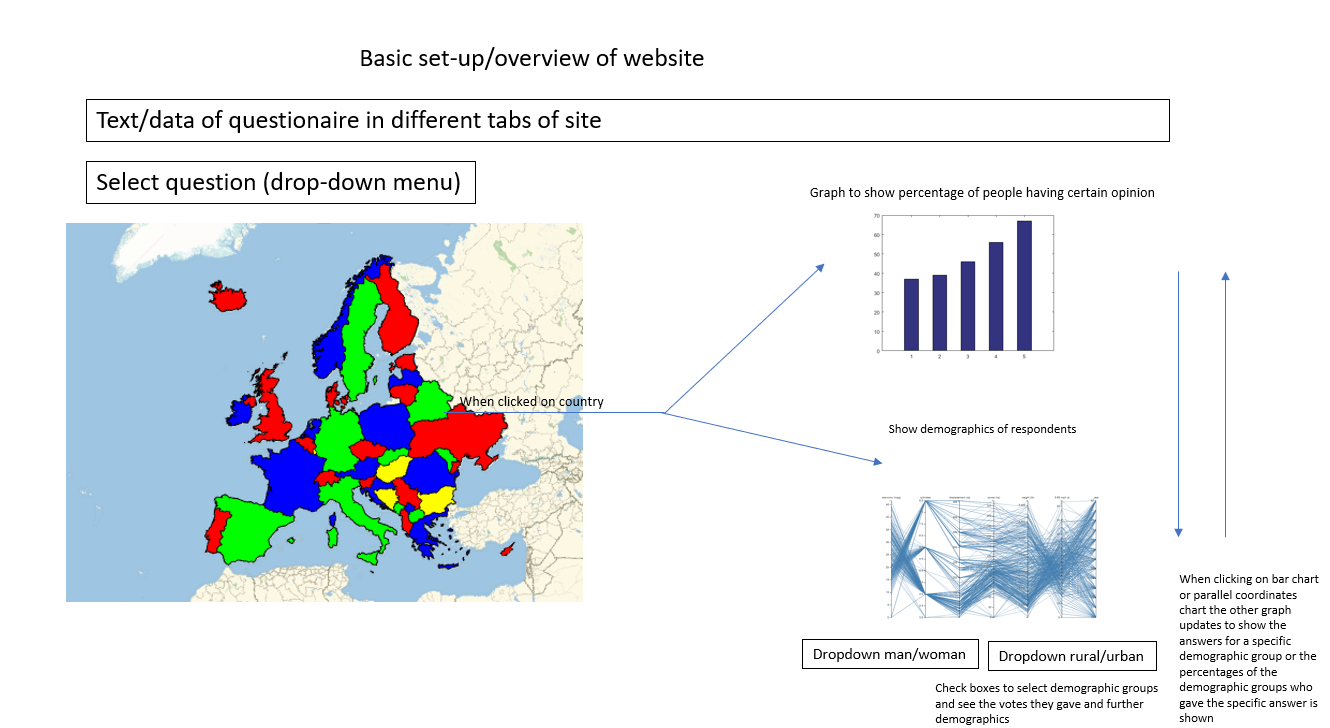
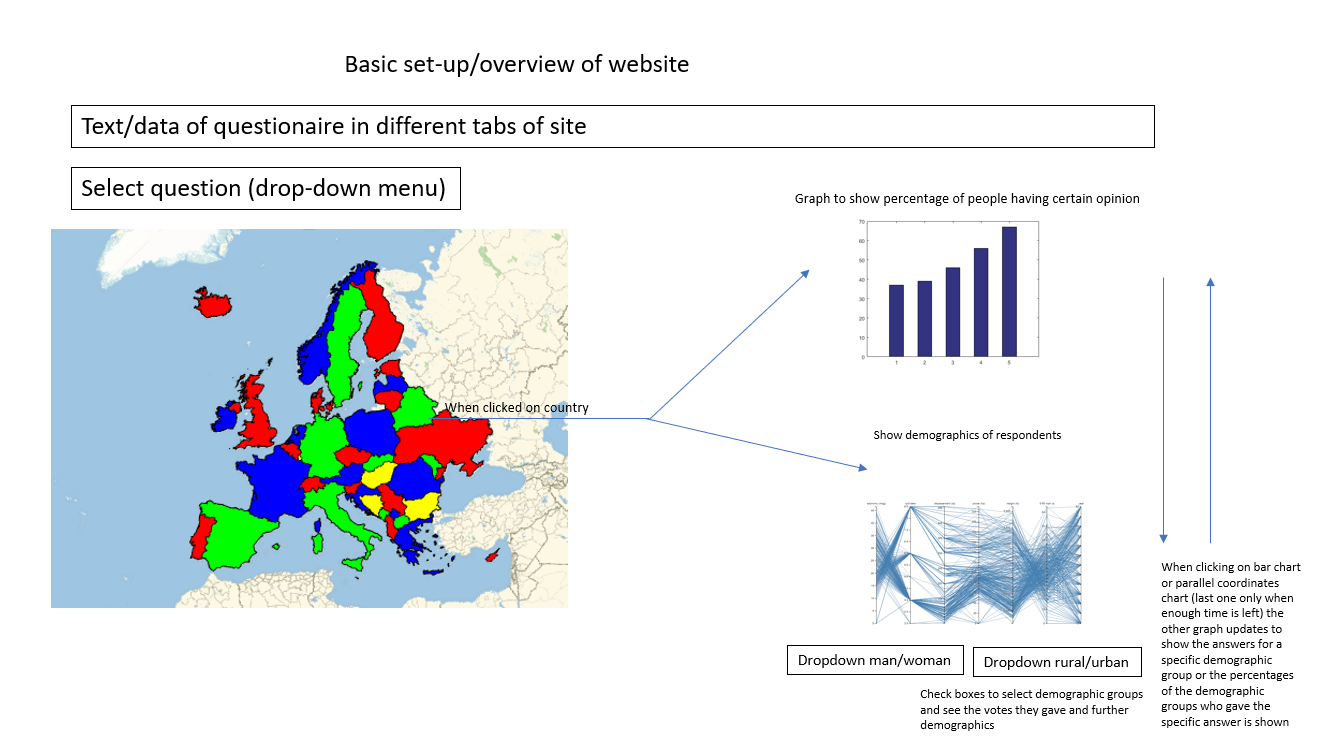
update

diff --git a/code/programming_project.js b/code/programming_project.js
@@ -169,6 +169,15 @@ function colorMap( globalData, chosenQuestion ) {
 		}
 	}
 
+	// declare variables
+	var choicesList;
+	var choices;
+	var choiceMax;
+	var choiceVar;
+	var choiceColor;
+	var mostChosenPercentage;
+	var colorCountries;
+
 	// loop through the list of all surveyed countries
 	for ( var j = 0; j < countryList.length; j++ ) {
 
@@ -176,27 +185,26 @@ function colorMap( globalData, chosenQuestion ) {
 		
 		// determine which options is chosen most often and determine color
 		var returncalculateChoices = calculateChoice( globalData, chosenQuestion, country );
-		var choicesList = [];
-		var choices = [];
-		var choiceMax = 0;
-		var choiceVar = "";
-		var choiceColor;
-		var mostChosenPercentage;
-		var colorCountries;
+		choicesList = [];
+		choices = [];
+		choiceMax = 0;
+		choiceVar = "";
 
+console.log(returncalculateChoices);
 		// put necessary data in choices
-		for ( var l = 0; l < ( returncalculateChoices.length - 10 ); l++ ) {
+		for ( var l = 0; l < ( returncalculateChoices.length - 11 ); l++ ) {
  
-			for ( var m = 9; m < ( returncalculateChoices.length - 1); m++ ) {
-
-				if ( returncalculateChoices[l] != "" && returncalculateChoices[m] > 0 ) {
-					
+			
+			console.log(returncalculateChoices[l+9]);
+				if ( returncalculateChoices[l] != "" && returncalculateChoices[l + 10] > 0 ) {
+			
 					choicesList.push( returncalculateChoices[l] );
-					choices.push( returncalculateChoices[m] );
+					choices.push( returncalculateChoices[l + 10] );
 				}
-			}
-		}
 
+		}
+		console.log(choices);
+		console.log(choicesList);
 		// determine color
 		for ( var n = 0; n < choicesList.length; n++ ) {
 
@@ -233,7 +241,50 @@ function colorMap( globalData, chosenQuestion ) {
 
 		d3.selectAll( currentCountry )
 			.attr( "fill", choiceColor );
-	}
+	} 
+
+	// make legenda
+	var legend = d3.select( ".map" )
+		.select( "svg" )
+		.append( "g" )
+		.attr("class", "legenda")
+		.append("rect")
+	        .attr("id", "canvas")
+	        .attr("x", 580)
+	        .attr("y", 150)
+	        .attr("class", "st0")
+	        .attr("width", "250")
+	        .attr("height", "150")
+	        .style("opacity", "0.1");
+
+    // make rectangles with colors for legenda
+    for ( var p = 0; p < ( colorCountries.length ); p++ ) {
+    	
+    	d3.select( ".legenda")
+    		.select( "#canvas" )
+        	.append( "rect" )
+	            .attr( "x", 580 )
+	            .attr( "y", ( 23.4 * ( p ) + 150 ) )
+	            .attr( "class", "st1" )
+	            .attr( "width", "10" )
+	            .attr( "height", "15" )
+	            .style( "fill", colorCountries[p] );
+    }
+   
+
+    // make text element to describe input legenda and data
+    for ( var q = 0; q < ( choicesList.length ); q++ ) {
+    	
+    	d3.select(".legenda")
+    		.select( "#canvas" )
+	        	.append( "text" )
+	            .attr( "x", 580 )
+	            .attr( "y", ( 23.4 * ( q ) + 410 ) )
+	            .attr( "class", "st2" )
+	            .attr( "width", "60" )
+	            .attr( "height", "15" )
+	            .text( choicesList[q] );
+    }   
 }
 
 // updateMap function
@@ -279,12 +330,10 @@ function drawBarGraph( globalData, chosenQuestion, countryCode ) {
 		dataCountryPercentages.push( { "choice": choicesList[k], "percentage" : choicePercentages[k] } );
 	}
 
-	console.log(dataCountryPercentages);
-
 	// state dimensions
-	var margin = { top: 30, right: 30, bottom: 100, left: 50 };
-	var width = 400 - margin.left - margin.right;
-	var height = 500 - margin.top - margin.bottom;
+	var margin = { top: 10, right: 30, bottom: 200, left: 50 };
+	var width = 500 - margin.left - margin.right;
+	var height = 600 - margin.top - margin.bottom;
 
 	var y = d3.scale.linear()
 		.range( [height, 0] );
@@ -304,7 +353,7 @@ function drawBarGraph( globalData, chosenQuestion, countryCode ) {
 
 	var tip = d3.tip()
 		.attr( "class", "tip" )
-		.html( function( d ) { return "<span>" + Math.round( d.percentage ) + "</span>"; } )
+		.html( function( d ) { return "<span>" + ( Math.round( d.percentage * 10 ) / 10 ) + "%" + "</span>"; } )
 
 	var bar = chart.selectAll( "g" )
 			.data( dataCountryPercentages )
@@ -354,18 +403,23 @@ function drawBarGraph( globalData, chosenQuestion, countryCode ) {
 		.scale( x )
 		.orient( "bottom" );
 
-	chart.append( "g" )
-		.attr( "class", "x axis" )
+	var xLabels = chart.append( "g" )
+		.attr( "class", "xAxis" )
 		.attr( "transform", "translate(" + margin.left + "," + height + " )" )
 		.call( xAxis );	
 	
-	chart.append( "text" )
+	var xName = chart.append( "text" )
 		.attr( "class", "label" )
-		.attr( "x", width )
-		.attr( "y", height + 30 )
-		.attr("transform", "translate(" + (width / 2) + ", 20)")
+		.attr( "x", width + 50 )
+		.attr( "y", height + 40 )
+		// .attr("transform", "translate(" + (width / 2) + ", 20)")
 		.style( "text-anchor", "end" )
 		.text( "choice" );
+
+	var rotateXLabels = d3.select( ".xAxis" )
+		.selectAll( "text" )
+		.attr( "transform", "rotate( -45 )" )
+		.style( "text-anchor", "end" );
 
 	var yAxis = d3.svg.axis()
 		.scale( y )
@@ -404,7 +458,7 @@ code for parallel coordinates graph is derived from: https://bl.ocks.org/mbostoc
 function drawParallelCoordinatesGraph( globalData, chosenQuestion, countryCode ) {
 
 	// declare size of graph and margins
-	var margin = { top: 100, right: 30, bottom: 30, left: 30 };
+	var margin = { top: 100, right: 200, bottom: 30, left: 50 };
 	var width = 700 - margin.left - margin.right;
 	var height = 700 - margin.top - margin.bottom;
 	
@@ -516,12 +570,19 @@ function drawParallelCoordinatesGraph( globalData, chosenQuestion, countryCode )
 	chart.selectAll( ".dimension" )
 		.append( "g" )
 			.attr( "class", "axis" )
+			.attr( "id", function( d ) { return d.name; } )
 			.each( function( d ) {console.log(d3.select(this).call(yAxis.scale(d.scale))); d3.select( this ).call( yAxis.scale( d.scale ) ); } ) 
 		.append( "text" )
 			.attr( "class", "title" )
 			.style( "text-anchor", "middle" )
 			.attr( "y", -9 )
 			.text( function( d ) { return d.name; });
+
+	// set text to right side of most right axis
+	d3.select( "#basicIncomeVote" )
+		.selectAll( "text" )
+		.style( "text-anchor", "start" )
+		.attr( "transform", "translate( 10, 0 )" );
 
 	// add and store a brush for each axis
 	chart.selectAll( ".dimension" )

diff --git a/code/programming_project.html b/code/programming_project.html
@@ -13,6 +13,7 @@
     <script src="https://ajax.googleapis.com/ajax/libs/jquery/3.2.1/jquery.min.js"></script>
     <script src="https://maxcdn.bootstrapcdn.com/bootstrap/3.3.7/js/bootstrap.min.js"></script>
     <script src="https://d3js.org/d3-queue.v3.min.js"></script>
+    <script src="d3.legend.js"></script>
     <script src="programming_project.js"></script>
       <style>
         /* Set height of the grid so .sidenav can be 100% (adjust if needed) */

diff --git a/code/programming_project.css b/code/programming_project.css
@@ -27,6 +27,12 @@ p1{
 	display: none;
 }
 
+.xAxis path {
+  fill: none;
+  stroke: #000;
+  shape-rendering: crispEdges;
+}
+
 .background path {
   fill: none;
   stroke: #ddd;

diff --git a/README.md b/README.md
@@ -10,7 +10,7 @@ Due to the increased interest, it is worthwhile to investigate the brought opini
 Because at present there are no visualizations available about the public opinion of basic income, it is hard to really pinpoint the actual opinion about the basic income and its division over the population per European country. The main target audience of this project will be people with interest in the basic income. 
 
 ## Solution of the problem
-The solution to this problem is to create a website that shows a map of Europe where the countries are colored according to a specific opinion about an aspect of the basic income and when clicked on the country the division of that opinion over the population is shown in total and all respondents and demographics of respondents of the interviewed people is shown in a parallel orientations graph, the parallel orientations graph and bar graph will interact on click/selection basis.
+The solution to this problem is to create a website that shows a map of Europe where the countries are colored according to a specific opinion about an aspect of the basic income and when clicked on the country the division of that opinion over the population is shown in total and all respondents and demographics of respondents of the interviewed people is shown in a parallel orientations graph, the parallel orientations graph and bar graph will interact on click/selection basis (only when enough time is left).
 
 ## Datasets
 The dataset that is used to build this website comes from kaggle.com.

diff --git a/PROCESS.md b/PROCESS.md
@@ -49,3 +49,6 @@ Today, I received some help for the parallel coordinates graph and at the end th
 
 ## Thursday 25th of January 2018
 Tried to put the following interactivities at work, update barchart and parallel coordinates graph upon country and question selection, change parallel coordinates upon answer selection on barchart, make brush of parallel coordinates work, put drowdowns below the parallel coordinates graph and update barchart upon parallel coordinates selection. Except the last task, I managed to make progress on all of the tasks and they are working (with a few bugs).
+
+## Friday 26th of January 2018
+Spend most of the day trying to fix the brush. Unfortunately, it did not improve enough, brush is only working for the top answer possibilities. During the feedback session I also received feedback on the project that more explanation around my graphs is necessary and that the axis of the parallel coordinate graph should be more clear next to the fact that it should be visible for users to see how many correspondents were belonging to a certain group.
